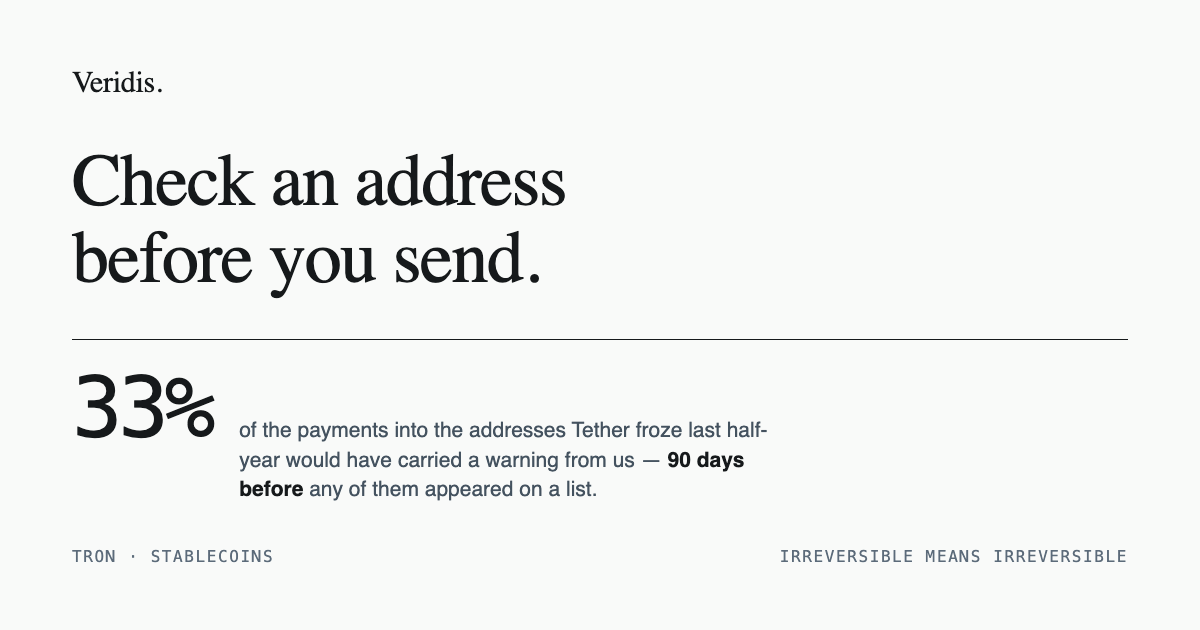
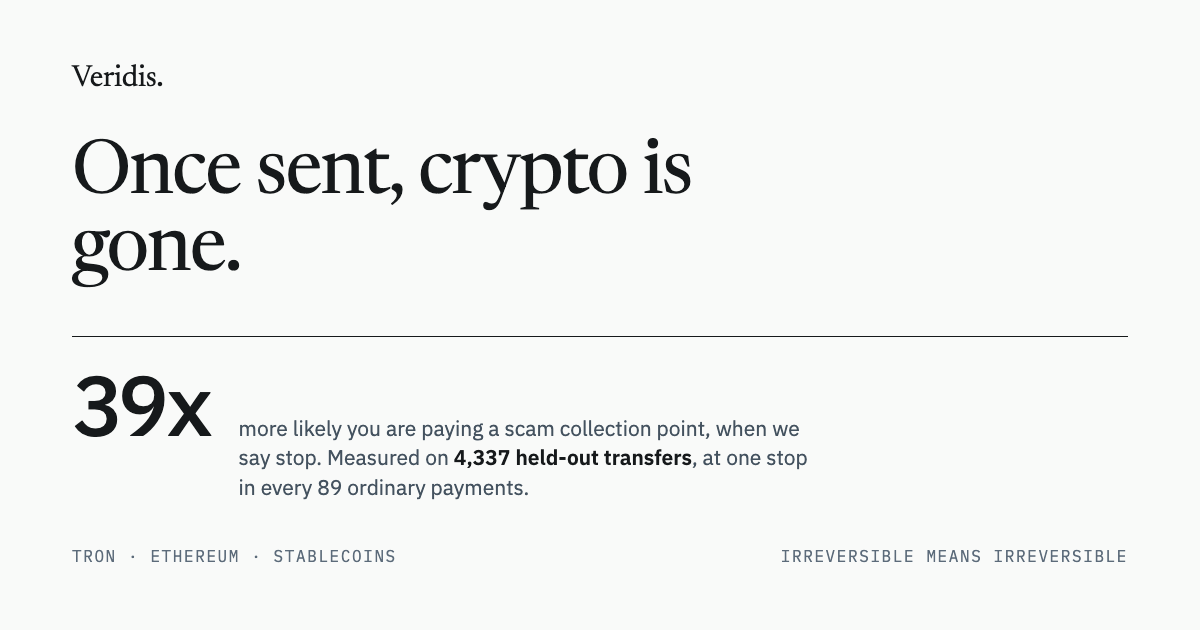
publish 2026-10-13T18:46Z

diff --git a/index.html b/index.html
@@ -5,6 +5,19 @@
 <meta name="viewport" content="width=device-width,initial-scale=1,viewport-fit=cover">
 <title>Veridis: crypto scam check before you send</title>
 <meta name="description" content="Check a crypto wallet address before you send. We read its history on-chain and warn you if it behaves like a scam collection point.">
+<!-- A shared link with no card is a link nobody clicks, and the landing page
+     had none: the tags lived on lookup.html from when that was the homepage.
+     og:image must be absolute, so it carries the domain. -->
+<meta property="og:type" content="website">
+<meta property="og:site_name" content="Veridis">
+<meta property="og:url" content="https://tryveridis.com/">
+<meta property="og:title" content="Once sent, crypto is gone.">
+<meta property="og:description" content="We analyze the receiving wallet's entire history on the blockchain and warn you if it behaves like a scam, in time to stop.">
+<meta property="og:image" content="https://tryveridis.com/og.png">
+<meta name="twitter:card" content="summary_large_image">
+<meta name="twitter:title" content="Once sent, crypto is gone.">
+<meta name="twitter:description" content="Check a crypto wallet address before you send. A stop makes it 39x more likely you are paying a scam collection point.">
+<meta name="twitter:image" content="https://tryveridis.com/og.png">
 <!-- Where usage counts go. Empty means count nothing, which is the default
      for a fork, a local copy and anyone who has not deliberately set it. -->
 <meta name="veridis-tally" content="https://broad-heart-41f9.elliotjshin10.workers.dev">
